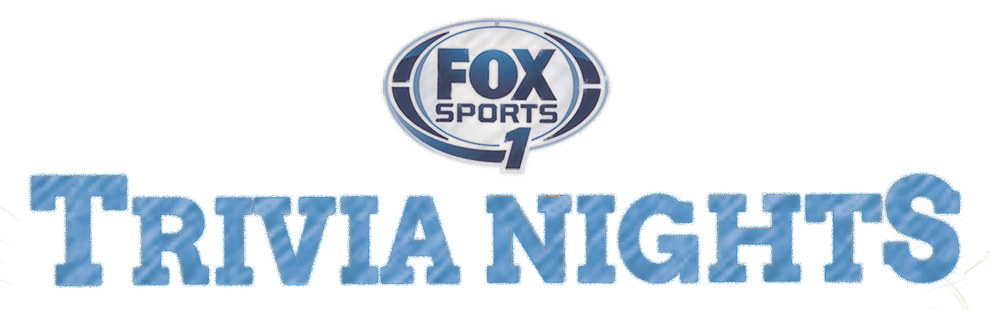
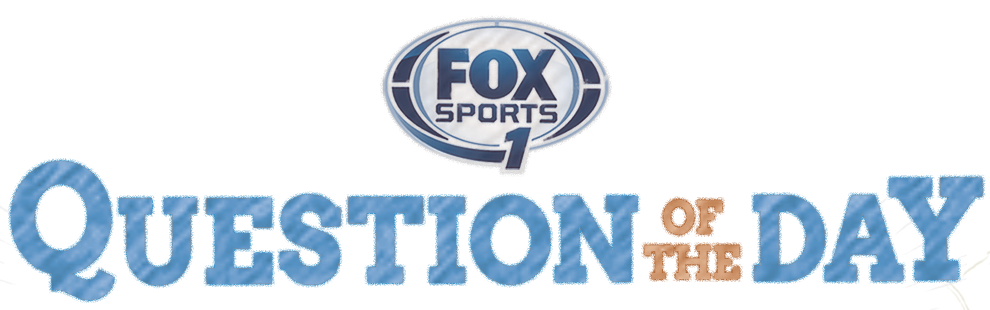
FXSP 1200 Bar Trivia - updated header graphic, added padding at bottom of widget

Changed region(s): [[0.0, 0.4935, 1.0, 0.9871]]

diff --git a/fxsp/1200/modules/vhm/widgets/css/colorschemes/fxsp_1200_bar_trivia.css b/fxsp/1200/modules/vhm/widgets/css/colorschemes/fxsp_1200_bar_trivia.css
@@ -46,7 +46,7 @@ div#questionWindow {
 }
 
 .widgetWindow {
-	margin: 0 8%;
+	margin: 0 8% 6%;
 }
 
 .widgetWindow .row {
